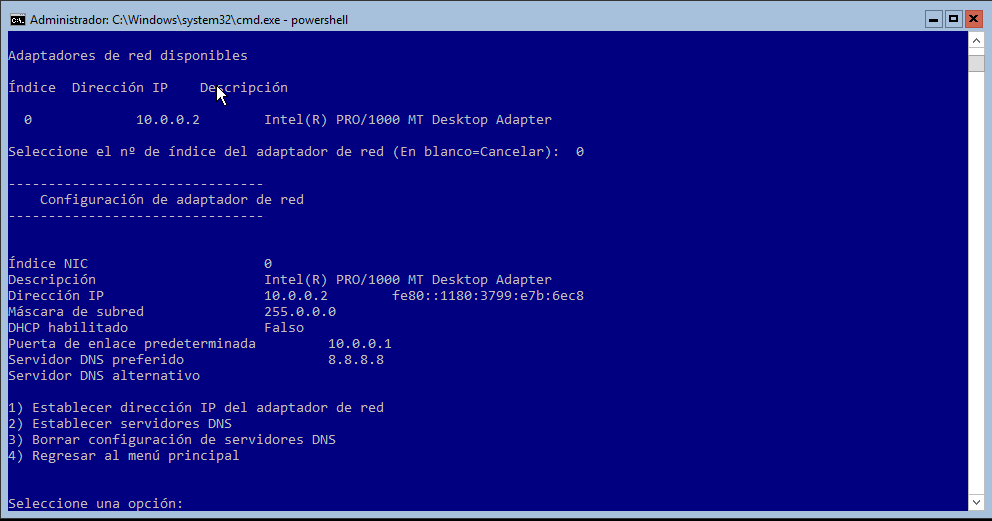
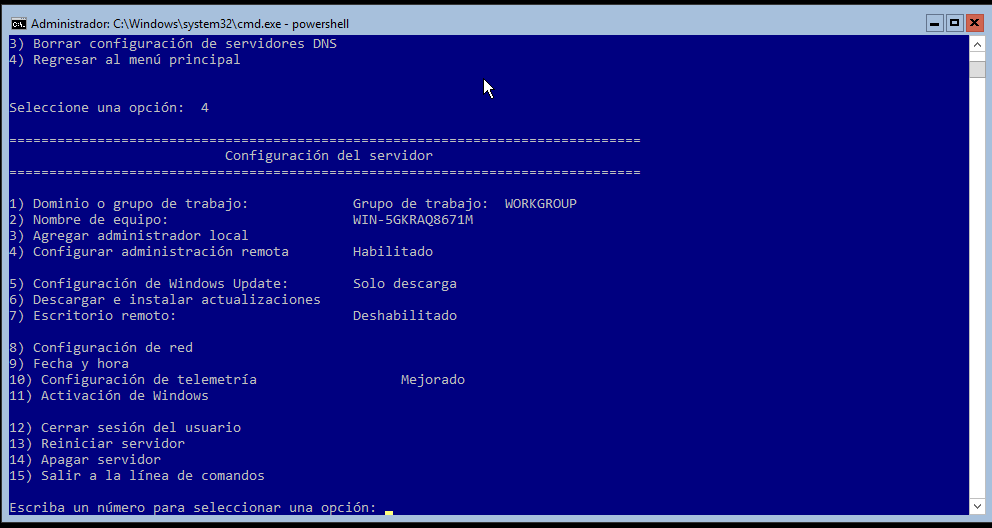
configuracion del adaptador

diff --git a/README.md b/README.md
@@ -9,5 +9,15 @@ el Active Directory.
 
 ### Asignación de dirección IP, máscara de red y servidor DNS al servidor
 Antes de crear un domino deberemos asignar una dirección IP al adaptador de red junt con su máscara de red y también 
-un servidor DNS para que el servidor pueda tener acceso a internet. Para ello haremos uso del *sconfig.md*. Al ejecutarlo nos encontraremos lo siguiente:
+un servidor DNS para que el servidor pueda tener acceso a internet. Para ello haremos uso del *sconfig.md*. Al ejecutarlo
+nos encontraremos lo siguiente:
+
 ![alt text](https://github.com/raframmed/administracion_de_dominios/blob/master/assets/images/sconfig_cmd.png "sconfig.cmd")
+
+Como podemos observar en mi caso ya tengo configurada una dirección IP con su máscara y un servidor DNS. Para ello deberemos 
+seleccionar la opción 8 del menú que se nos muestra, la cual nos llevará al siguiente submenú:
+
+![alt text](https://github.com/raframmed/administracion_de_dominios/blob/master/assets/images/adaptador_sconfig.png "adaptador_sconfig.cmd")
+
+
+
